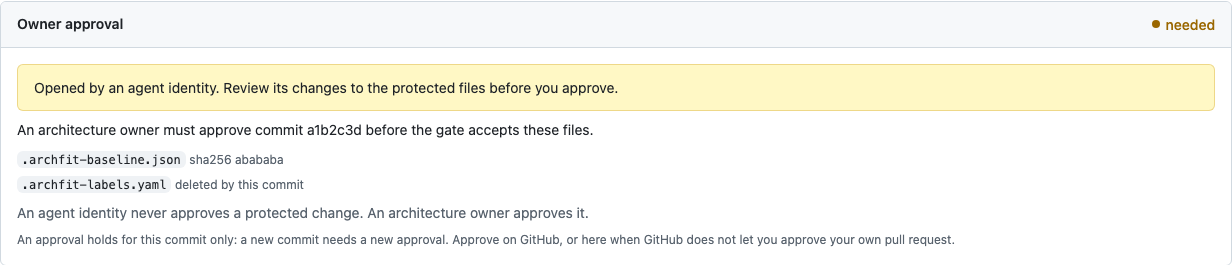
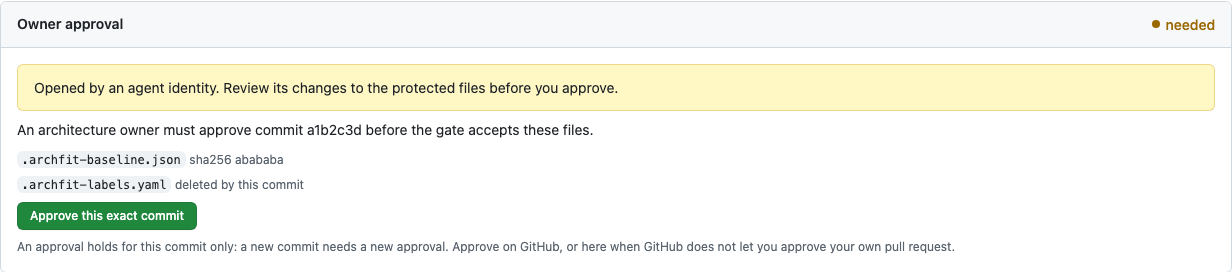
docs: the agent-PR approval screenshot shows what an owner sees (A2)
revmux final: the fixture mixed who opened the pull request with who views it and
showed a refusal the server never writes.

diff --git a/web/e2e/smoke.spec.ts b/web/e2e/smoke.spec.ts
@@ -2000,21 +2000,14 @@ test('docs: the screenshots of the report-derived action-required page and the u
   }
 });
 
-// The owner approval box of a pull request that changes protected files: an owner who may approve the exact commit,
-// and a pull request an agent identity opened, where the box says why it cannot be approved here. Light and dark,
-// sample data. Regenerate with ARCHFIT_DOCS_SHOTS=1.
+// The owner approval box of a pull request that changes protected files, as an owner sees it: a person's pull
+// request, and one an agent identity opened, which the box marks before the owner approves. Light and dark, sample data.
+// Regenerate with ARCHFIT_DOCS_SHOTS=1.
 test('docs: the screenshots of the owner approval box', async ({ page }) => {
   test.skip(!process.env.ARCHFIT_DOCS_SHOTS, 'set ARCHFIT_DOCS_SHOTS=1 to regenerate the guide screenshots');
   await page.setViewportSize({ width: 1280, height: 900 });
-  const agentPull = {
-    ...unapprovedPull,
-    approval: {
-      ...approvalMissing,
-      can_approve: false,
-      author_is_agent: true,
-      reason: 'An agent identity never approves a protected change. An architecture owner approves it.',
-    },
-  };
+  // author_is_agent is about who opened the pull request; can_approve is about the owner viewing it.
+  const agentPull = { ...unapprovedPull, approval: { ...approvalMissing, author_is_agent: true } };
   for (const scheme of ['light', 'dark'] as const) {
     for (const [name, pull] of [
       ['owner-approval', unapprovedPull],

diff --git a/docs/user-guide.md b/docs/user-guide.md
@@ -592,8 +592,8 @@ owner. Sample data._
 ![The owner approval box of a pull request an agent identity opened](images/owner-approval-agent-pr-light.png#gh-light-mode-only)
 ![The owner approval box of a pull request an agent identity opened](images/owner-approval-agent-pr-dark.png#gh-dark-mode-only)
 
-_A pull request opened by an account in `agents` is marked, and the box says why that account cannot approve. Sample
-data._
+_A pull request opened by an account in `agents` is marked, so the owner reviews its changes to the protected files
+before approving. An account in `agents` signed in to the App never sees the button. Sample data._
 
 Pushing a commit is not an approval, whoever pushes it. A local coding agent pushes with its owner's credentials, so
 a push from an owner account says nothing about who decided.
